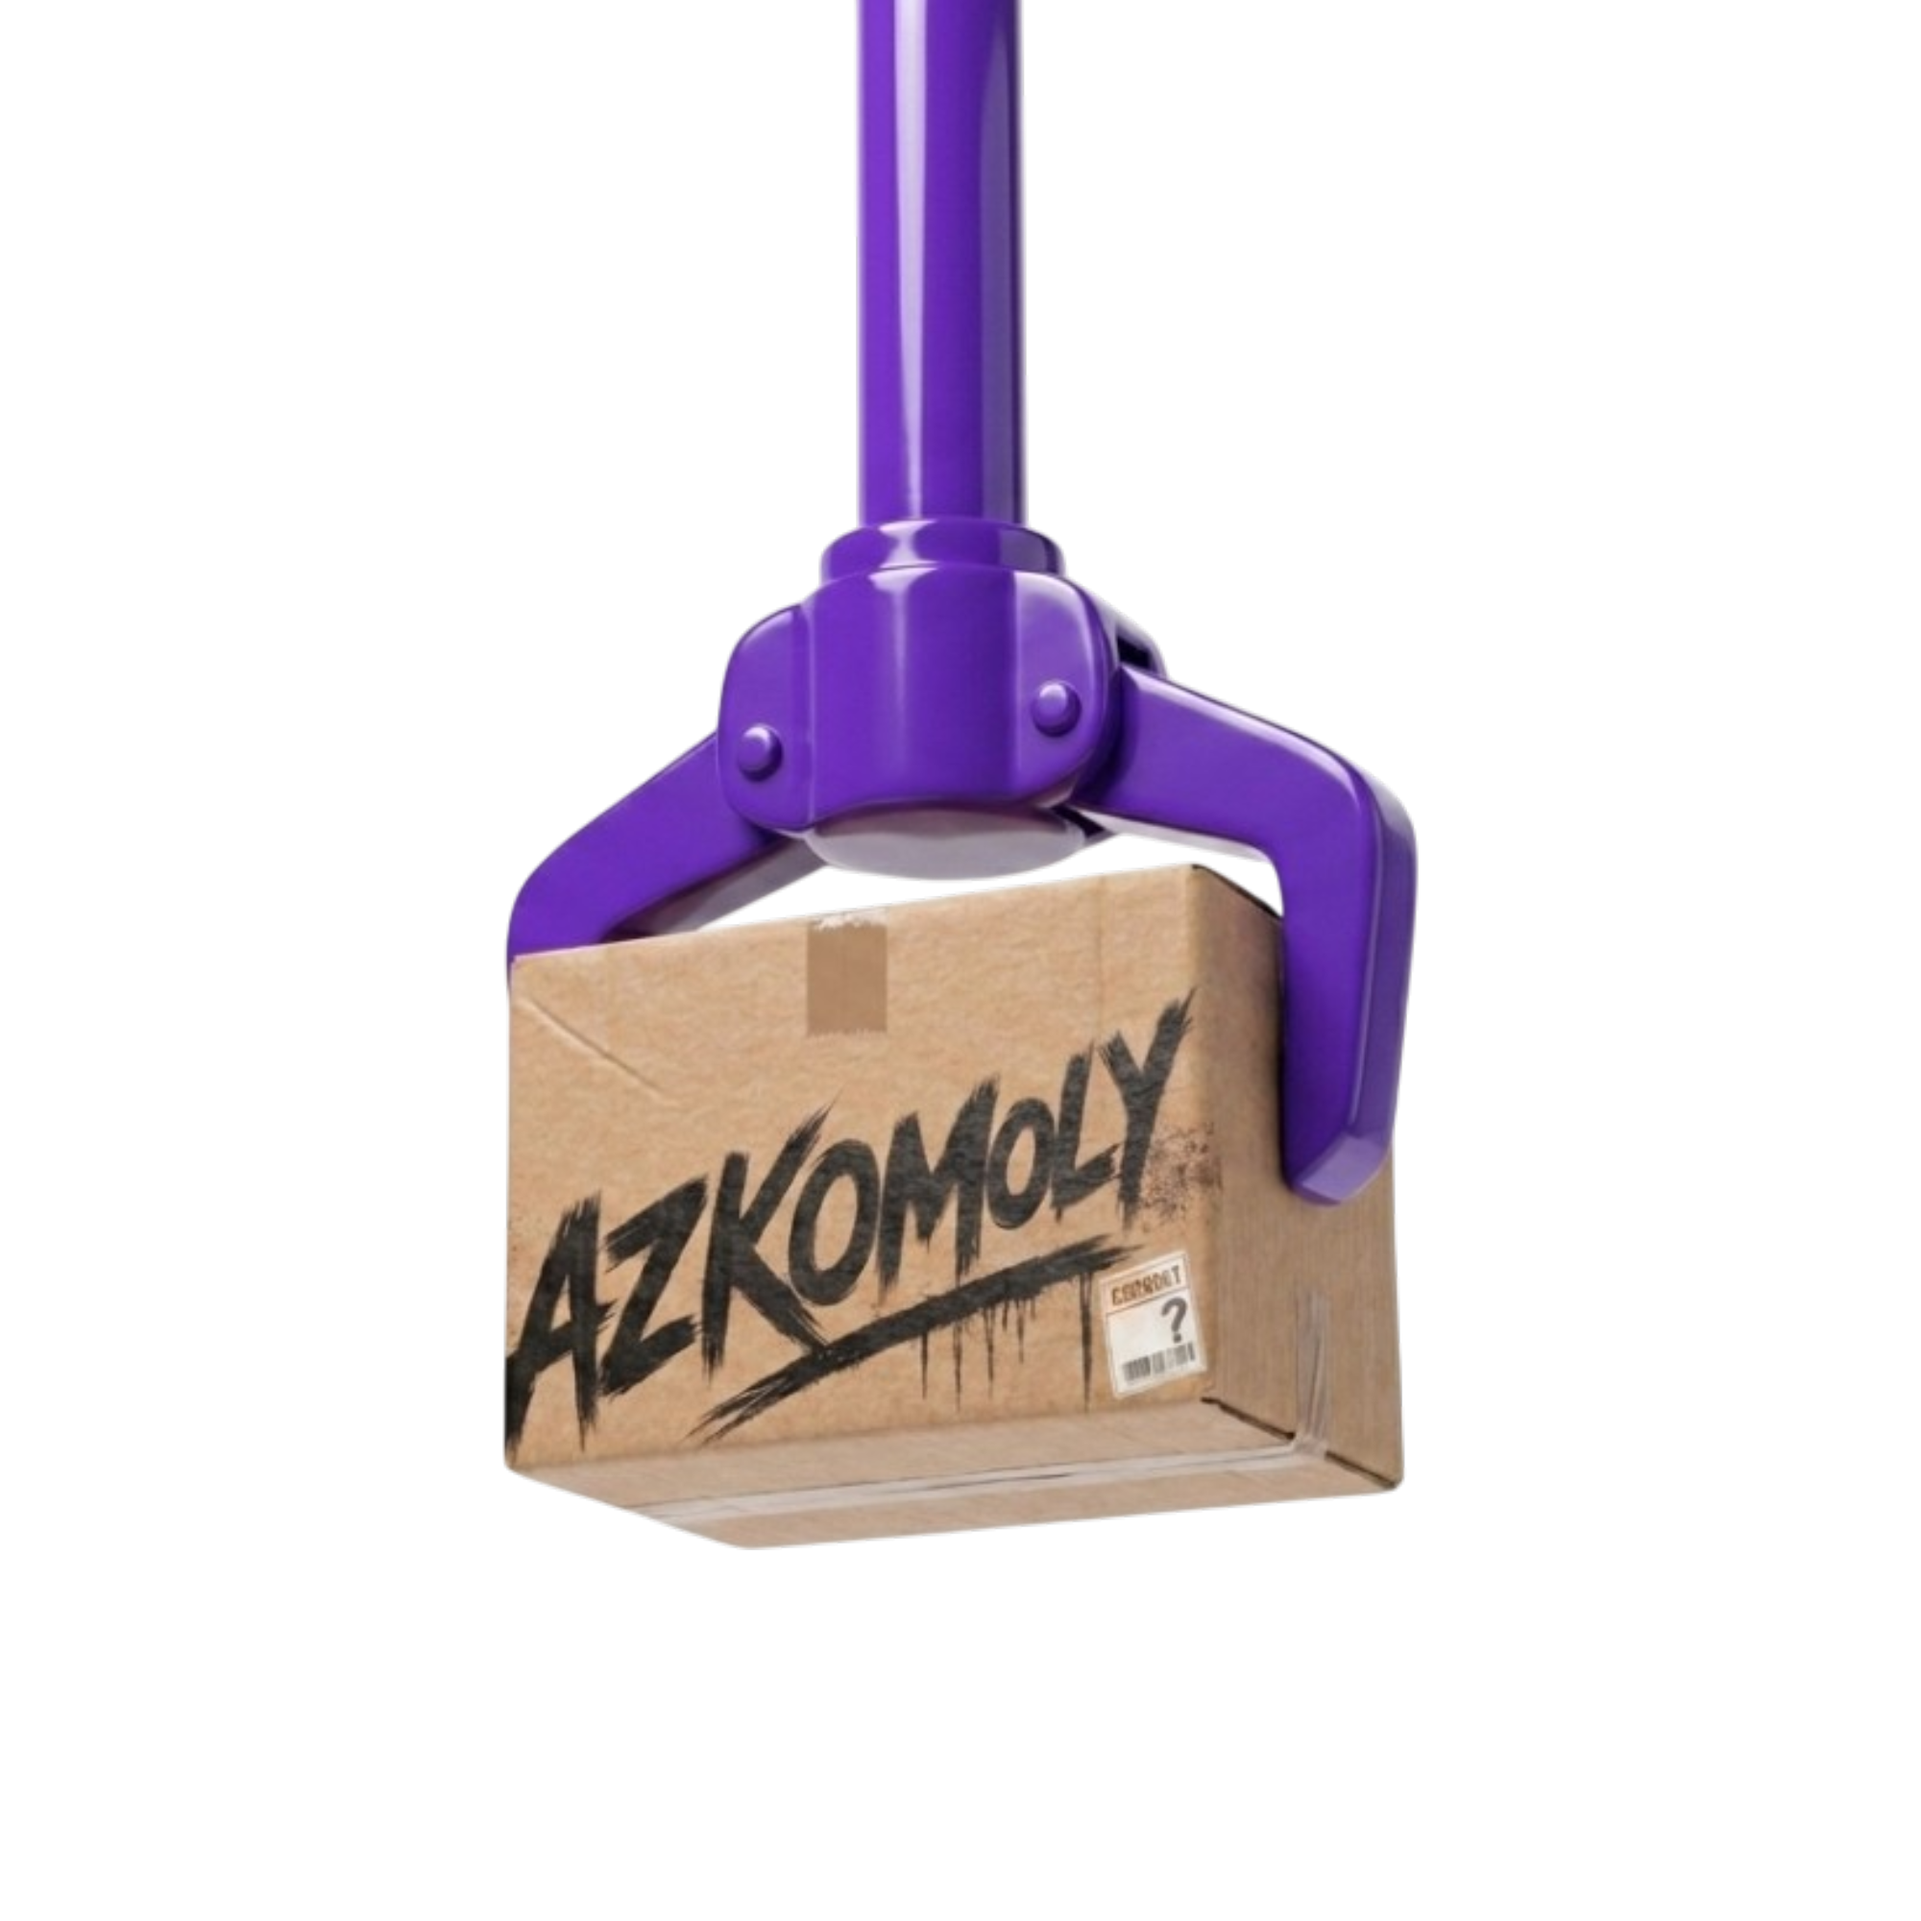
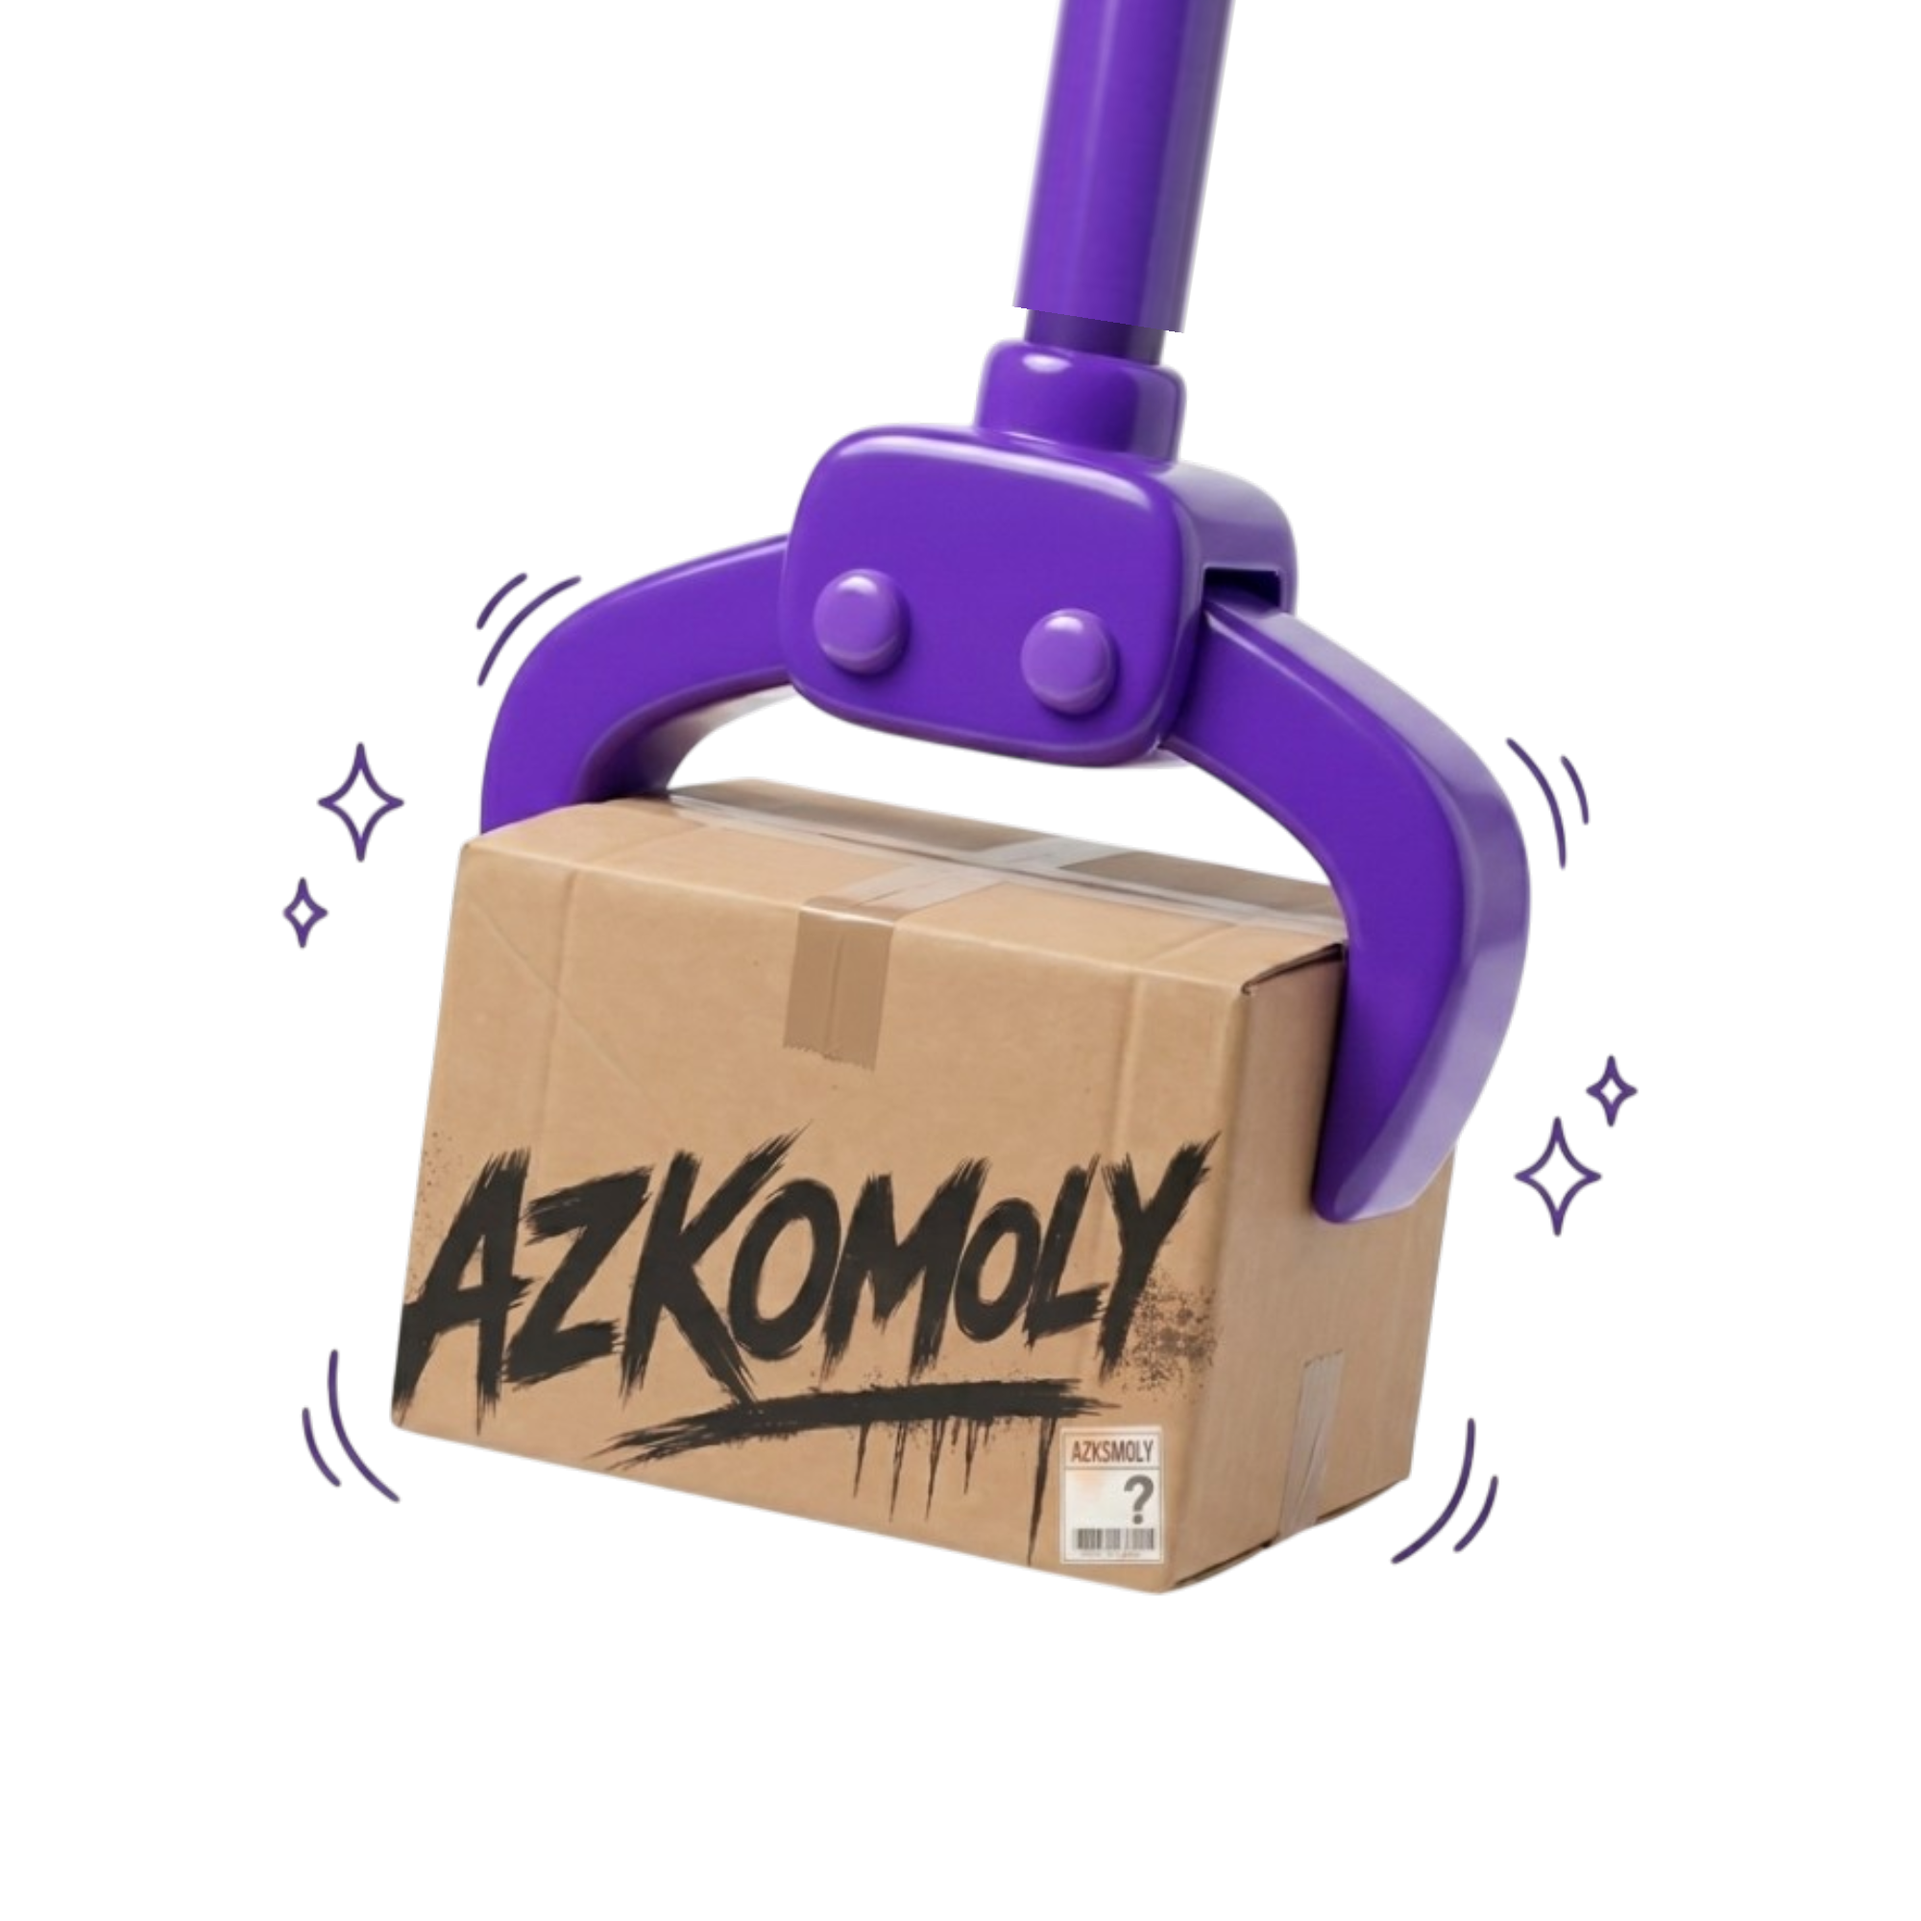
Movimiento de vuelta en azkomoly.hu, caja del hero cayendo, garra en capas y video mas grande
- BrandWave: vuelve el movimiento (se habia dejado quieto por pedido anterior),
  mismo texto "azkomoly.hu"
- HeroV2: la caja ya no hace un pop chico, cae desde arriba del viewport con
  un spring con rebote de aterrizaje
- Garra decorativa: actualizada a la nueva imagen que mando Diego, ahora vive
  DETRAS de la franja morada "Follow us" (que le tapa la vara) y solo asoma
  la mano+caja sobre la seccion blanca de abajo - efecto de capas/profundidad
  real en vez de una imagen plana encima. Mas grande y a un lado.
- Video de "How it works": contenedor mas ancho (max-w-2xl -> max-w-4xl)

Changed region(s): [[0.155, 0.0, 0.868, 0.837], [0.155, 0.403, 0.217, 0.434], [0.124, 0.465, 0.186, 0.496]]

diff --git a/src/routes/index.tsx b/src/routes/index.tsx
@@ -190,14 +190,12 @@ function BrandWave() {
       className="relative w-full overflow-hidden h-[14vw] min-h-[170px] sm:min-h-[104px]"
     >
       <div className="absolute inset-x-0 top-1/2 -translate-y-1/2">
-        {/* Pedido de Diego: mismo patrón/forma, pero quieta y con el dominio
-            en vez del nombre suelto — `speed={0}` ya hace que TextLoop no
-            arme el tween de GSAP (ver TextLoop.tsx), no hace falta tocar el
-            componente. */}
+        {/* Vuelve el movimiento (Diego lo pidió de nuevo) — mismo patrón/forma
+            de antes, con "azkomoly.hu" en vez del nombre suelto. */}
         <TextLoop
           text="azkomoly.hu"
           shape="wave"
-          speed={0}
+          speed={isMobile ? 55 : 90}
           direction="reverse"
           separator="✦"
           curviness={isMobile ? 14 : 18}
@@ -590,44 +588,47 @@ function FollowUsRow() {
   const t = useT();
   const reduceMotion = useReducedMotion();
   return (
-    <div className="relative flex flex-wrap items-center justify-center gap-3 bg-fire px-4 py-6">
-      <span className="mr-2 hidden font-sans text-xs font-bold uppercase tracking-[0.3em] text-white/78 sm:inline">
-        {t.footer.follow}
-      </span>
-      {SOCIAL_LINKS.map((s) => (
-        <a
-          key={s.key}
-          href={s.href}
-          target="_blank"
-          rel="noopener noreferrer"
-          aria-label={s.label}
-          className="group grid h-11 w-11 place-items-center overflow-hidden rounded-full border-2 border-white/45 bg-white/10 text-white transition-all hover:w-32 hover:-translate-y-0.5 hover:border-white hover:bg-white hover:text-fire focus-visible:w-32 focus-visible:outline-none focus-visible:ring-4 focus-visible:ring-white/40"
-        >
-          <span className="flex items-center gap-2 whitespace-nowrap px-3">
-            <SocialGlyph path={s.path} className="h-5 w-5 shrink-0" />
-            <span className="max-w-0 overflow-hidden font-sans text-xs font-bold uppercase opacity-0 transition-all group-hover:max-w-24 group-hover:opacity-100 group-focus-visible:max-w-24 group-focus-visible:opacity-100">
-              {s.label}
-            </span>
-          </span>
-        </a>
-      ))}
-
-      {/* Garra decorativa (pedido de Diego): vive justo en el corte entre
-          esta franja morada y "How it works" (blanca) — mitad y mitad, como
-          si estuviera bajando la caja de una sección a la otra. */}
+    // Envoltorio sin fondo propio: la garra vive DETRÁS de la franja morada
+    // (`z-0`, arranca en `top-0`) y la franja (`z-10`, sí con `bg-fire`) le
+    // tapa la vara — sólo asoma la mano+caja por abajo, sobre "How it works".
+    // Eso da la sensación de capas/3D que pidió Diego: la garra "viene
+    // saliendo" de detrás de la sección morada, no está pegada encima.
+    <div className="relative">
       <motion.img
         src="/decor/claw-decor.webp"
         alt=""
         aria-hidden="true"
-        width={974}
-        height={1624}
+        width={1434}
+        height={1672}
         loading="lazy"
         draggable={false}
-        className="pointer-events-none absolute left-1/2 bottom-0 z-20 w-[86px] sm:w-[120px] -translate-x-1/2 translate-y-1/2 drop-shadow-[0_14px_24px_rgba(13,13,13,0.35)]"
+        className="pointer-events-none absolute right-[4%] sm:right-[10%] top-0 z-0 w-[150px] sm:w-[220px] drop-shadow-[0_20px_28px_rgba(13,13,13,0.35)]"
         animate={reduceMotion ? undefined : { rotate: [-3, 3, -3] }}
         transition={reduceMotion ? undefined : { duration: 4, repeat: Infinity, ease: "easeInOut" }}
         style={{ transformOrigin: "top center" }}
       />
+      <div className="relative z-10 flex flex-wrap items-center justify-center gap-3 bg-fire px-4 py-6">
+        <span className="mr-2 hidden font-sans text-xs font-bold uppercase tracking-[0.3em] text-white/78 sm:inline">
+          {t.footer.follow}
+        </span>
+        {SOCIAL_LINKS.map((s) => (
+          <a
+            key={s.key}
+            href={s.href}
+            target="_blank"
+            rel="noopener noreferrer"
+            aria-label={s.label}
+            className="group grid h-11 w-11 place-items-center overflow-hidden rounded-full border-2 border-white/45 bg-white/10 text-white transition-all hover:w-32 hover:-translate-y-0.5 hover:border-white hover:bg-white hover:text-fire focus-visible:w-32 focus-visible:outline-none focus-visible:ring-4 focus-visible:ring-white/40"
+          >
+            <span className="flex items-center gap-2 whitespace-nowrap px-3">
+              <SocialGlyph path={s.path} className="h-5 w-5 shrink-0" />
+              <span className="max-w-0 overflow-hidden font-sans text-xs font-bold uppercase opacity-0 transition-all group-hover:max-w-24 group-hover:opacity-100 group-focus-visible:max-w-24 group-focus-visible:opacity-100">
+                {s.label}
+              </span>
+            </span>
+          </a>
+        ))}
+      </div>
     </div>
   );
 }
@@ -705,7 +706,7 @@ function HowItWorksVideo() {
   }, [inView, reduceMotion]);
 
   return (
-    <div className="relative mx-auto max-w-2xl aspect-video rounded-2xl overflow-hidden bg-background">
+    <div className="relative mx-auto max-w-4xl w-full aspect-video rounded-2xl overflow-hidden bg-background">
       <video
         ref={videoRef}
         src="/how-it-works/proceso.mp4"

diff --git a/src/components/HeroV2.tsx b/src/components/HeroV2.tsx
@@ -49,10 +49,14 @@ export function HeroV2() {
     // añadirle sombra la despegaba del fondo como una calcomanía.
     <motion.div
       className="relative"
-      initial={reduceMotion ? false : { opacity: 0, scale: 0.86, rotate: -8, y: 46 }}
+      // Pedido de Diego: que la caja "caiga" desde arriba al cargar la
+      // página, no que aparezca con un pop chico. Arranca bien afuera del
+      // viewport (y: -600) y el spring con poco damping le da el rebote de
+      // aterrizaje — cae, pica un poco, se asienta.
+      initial={reduceMotion ? false : { opacity: 0, scale: 0.92, rotate: -8, y: -600 }}
       animate={reduceMotion ? undefined : { opacity: 1, scale: 1, rotate: -1.5, y: 0 }}
       whileHover={reduceMotion ? undefined : { scale: 1.035, rotate: 1.25, y: -8 }}
-      transition={{ type: "spring", stiffness: 120, damping: 13, mass: 0.9, delay: 0.18 }}
+      transition={{ type: "spring", stiffness: 90, damping: 11, mass: 1.1 }}
     >
       <img
         src="/azkomoly_new_HERO_2.webp"
